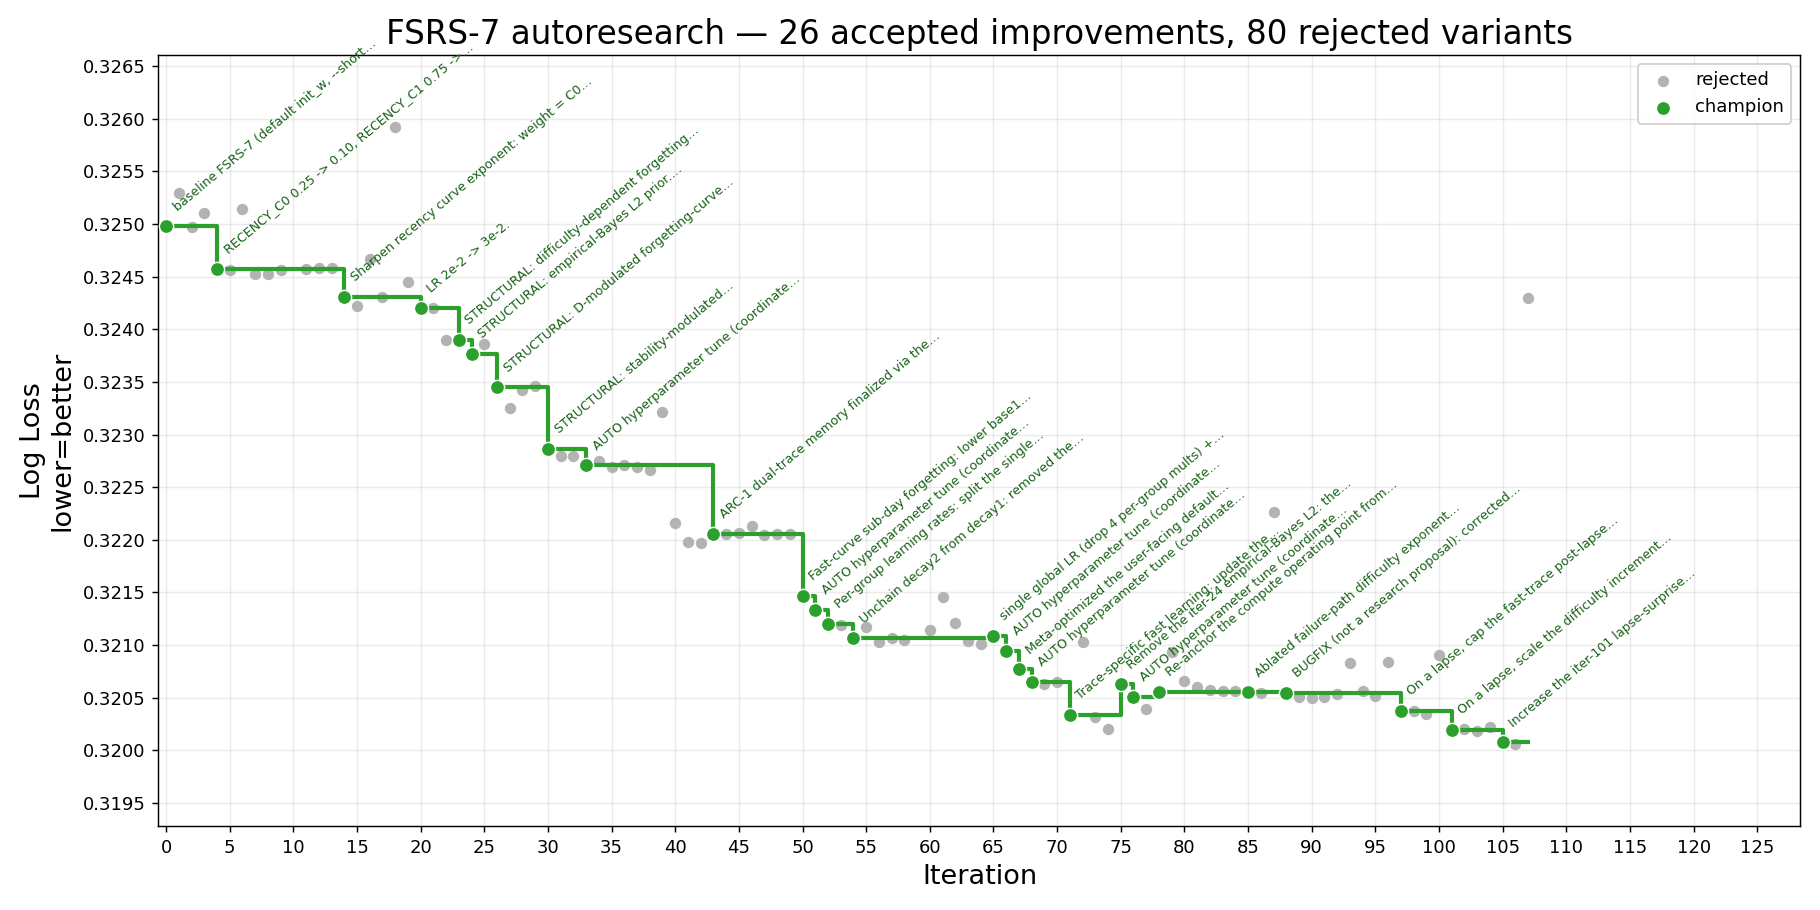
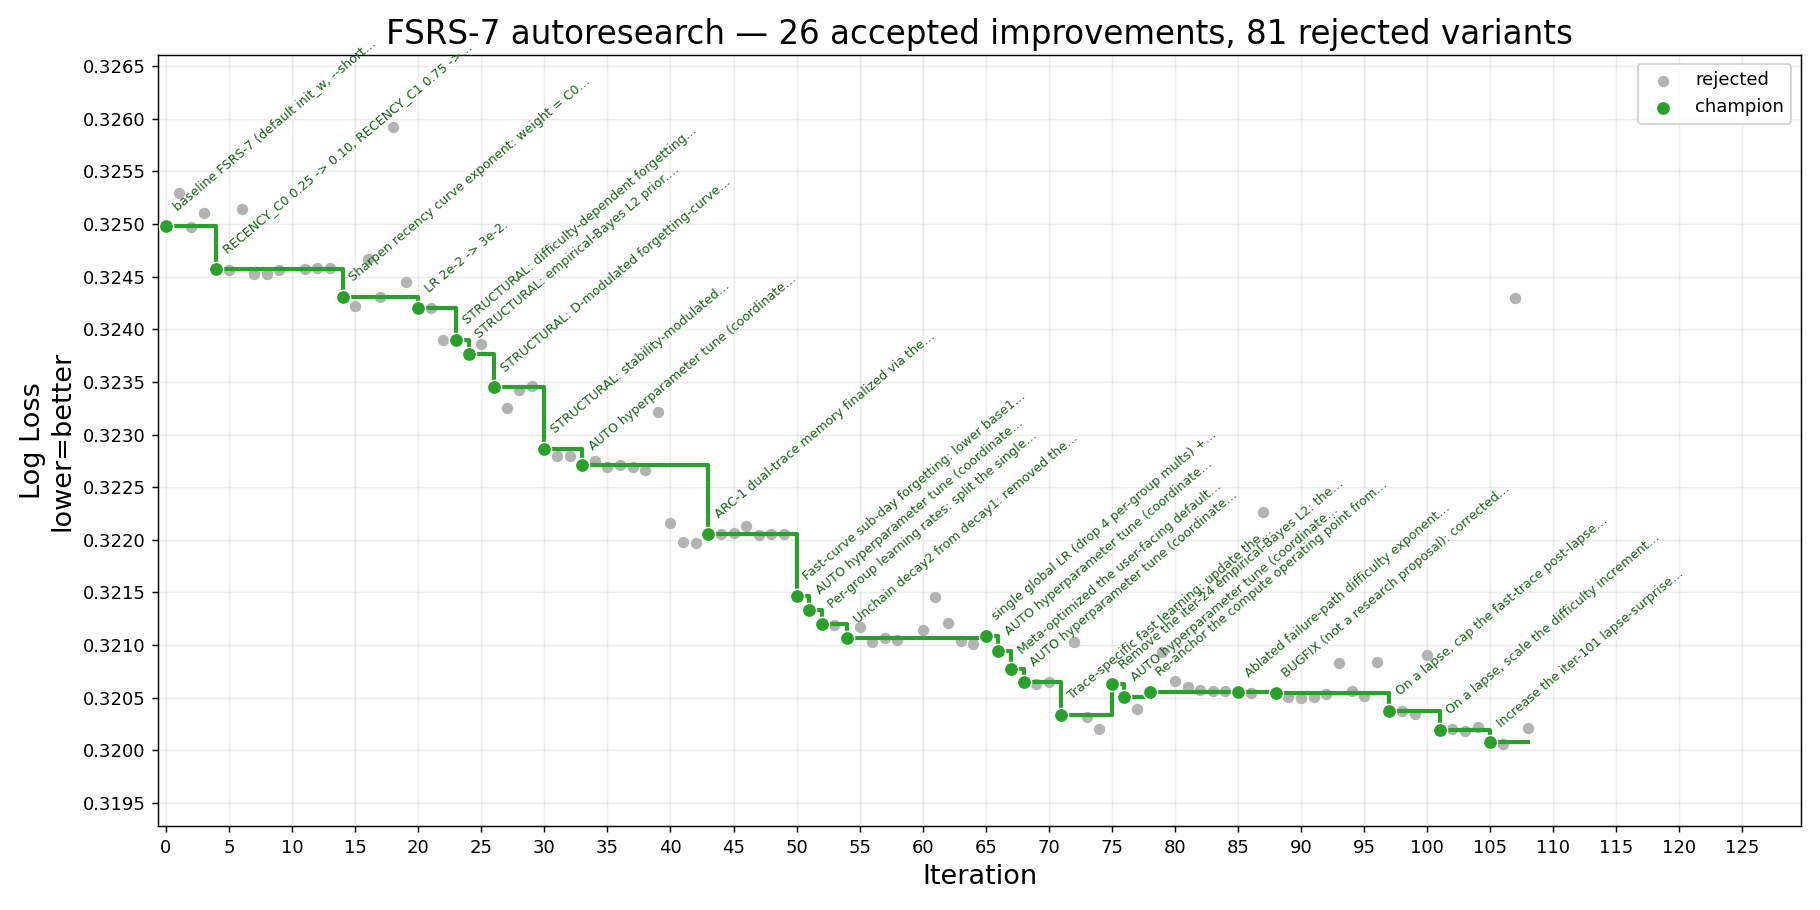
iter 108 (rejected): consolidation-onset gate down-weighting slow component for fresh cards -- regressed (-1.4e-4), slow component correctly weighted

diff --git a/result/history.md b/result/history.md
@@ -1,6 +1,6 @@
 # FSRS-7 autoresearch — iteration history
 
-_107 record(s). Generated from `history.jsonl` — do not edit by hand._
+_108 record(s). Generated from `history.jsonl` — do not edit by hand._
 
 | # | Time (UTC) | Thresh. | LL before | LL after | Δ LL | Cx before | Cx after | Δ Cx % | Status | Summary |
 |--:|---|---:|---:|---:|---:|---:|---:|---:|---|---|
@@ -111,3 +111,4 @@ _107 record(s). Generated from `history.jsonl` — do not edit by hand._
 | 105 | 2026-06-04T05:47:00 | 0.0001 | 0.32020 | 0.32008 | +0.00012 | 16,930 | 16,930 | +0.00% | accepted | Increase the iter-101 lapse-surprise coefficient from 0.5 to 1.0 (stronger R-modulation of the lapse difficulty increment). |
 | 106 | 2026-06-04T05:52:49 | 0.0001 | 0.32008 | 0.32006 | +0.00002 | 16,930 | 16,931 | +0.01% | rejected | Replace the linear lapse-surprise factor (1+1.0*(R-0.9)) with exponential exp(2.0*(R-0.9)) (always-positive, stronger spread). |
 | 107 | 2026-06-04T06:27:52 | 0.0001 | 0.32008 | 0.32430 | -0.00422 | 16,930 | 16,986 | +0.33% | rejected | On a same-day review (elapsed_time < 1 day) freeze the slow trace at its pre-review value; fast trace and difficulty still update. |
+| 108 | 2026-06-04T06:36:35 | 0.0001 | 0.32008 | 0.32021 | -0.00014 | 16,930 | 16,950 | +0.12% | rejected | Down-weight the slow forgetting-curve component for low-stability (fresh) cards via a (1-exp(-s/0.1)) consolidation-onset gate on weight2. |
